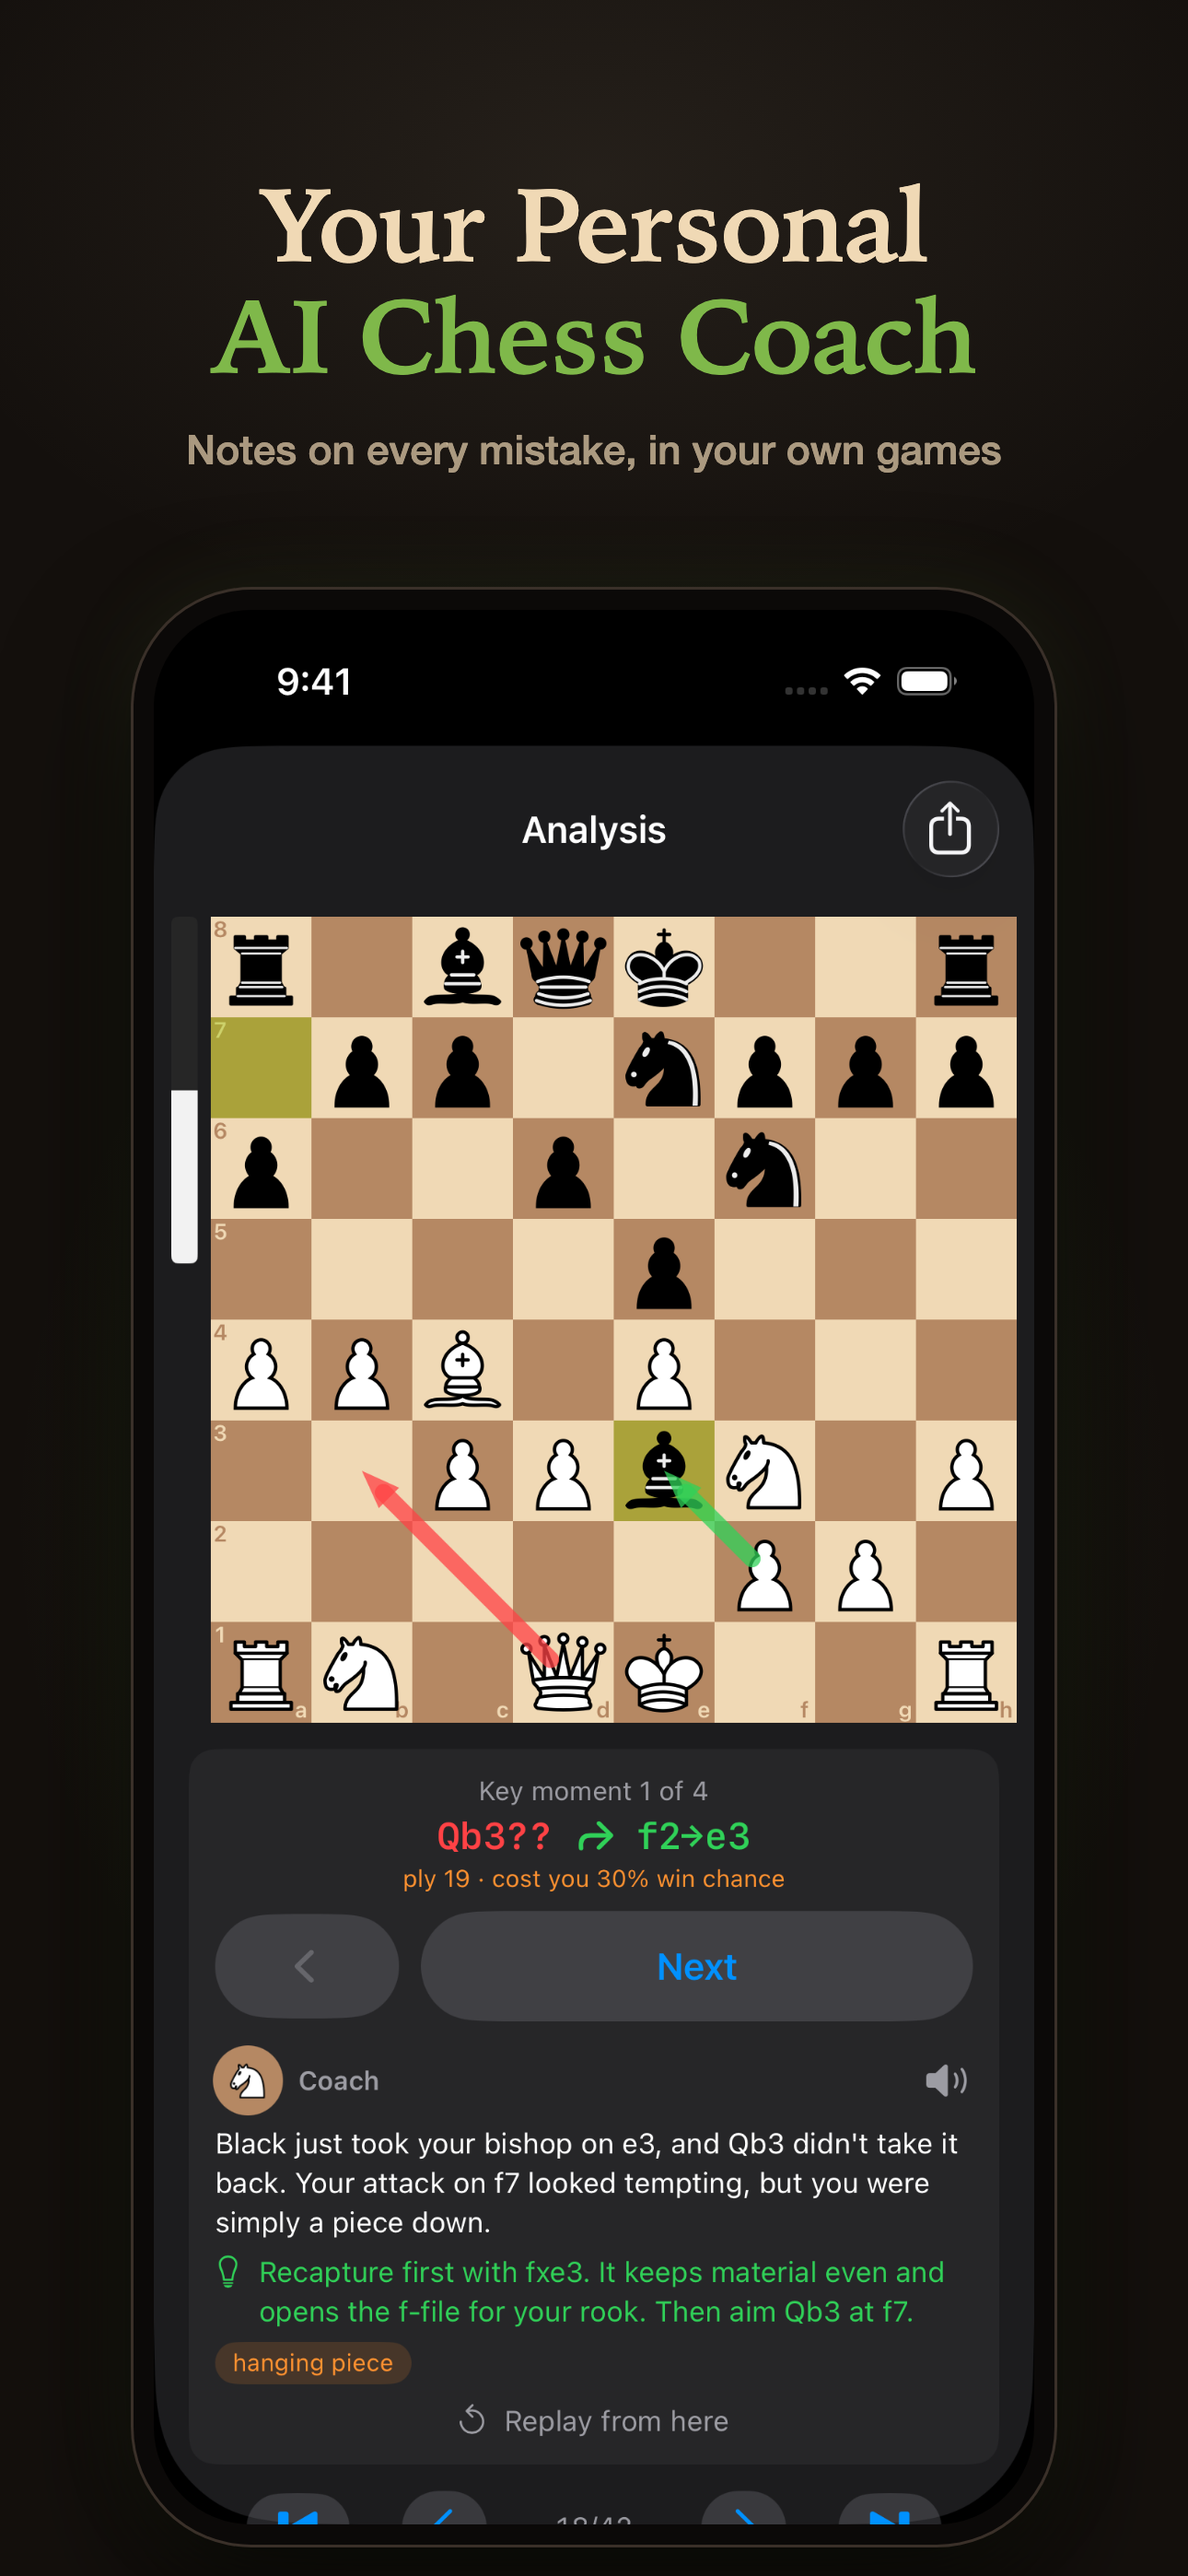
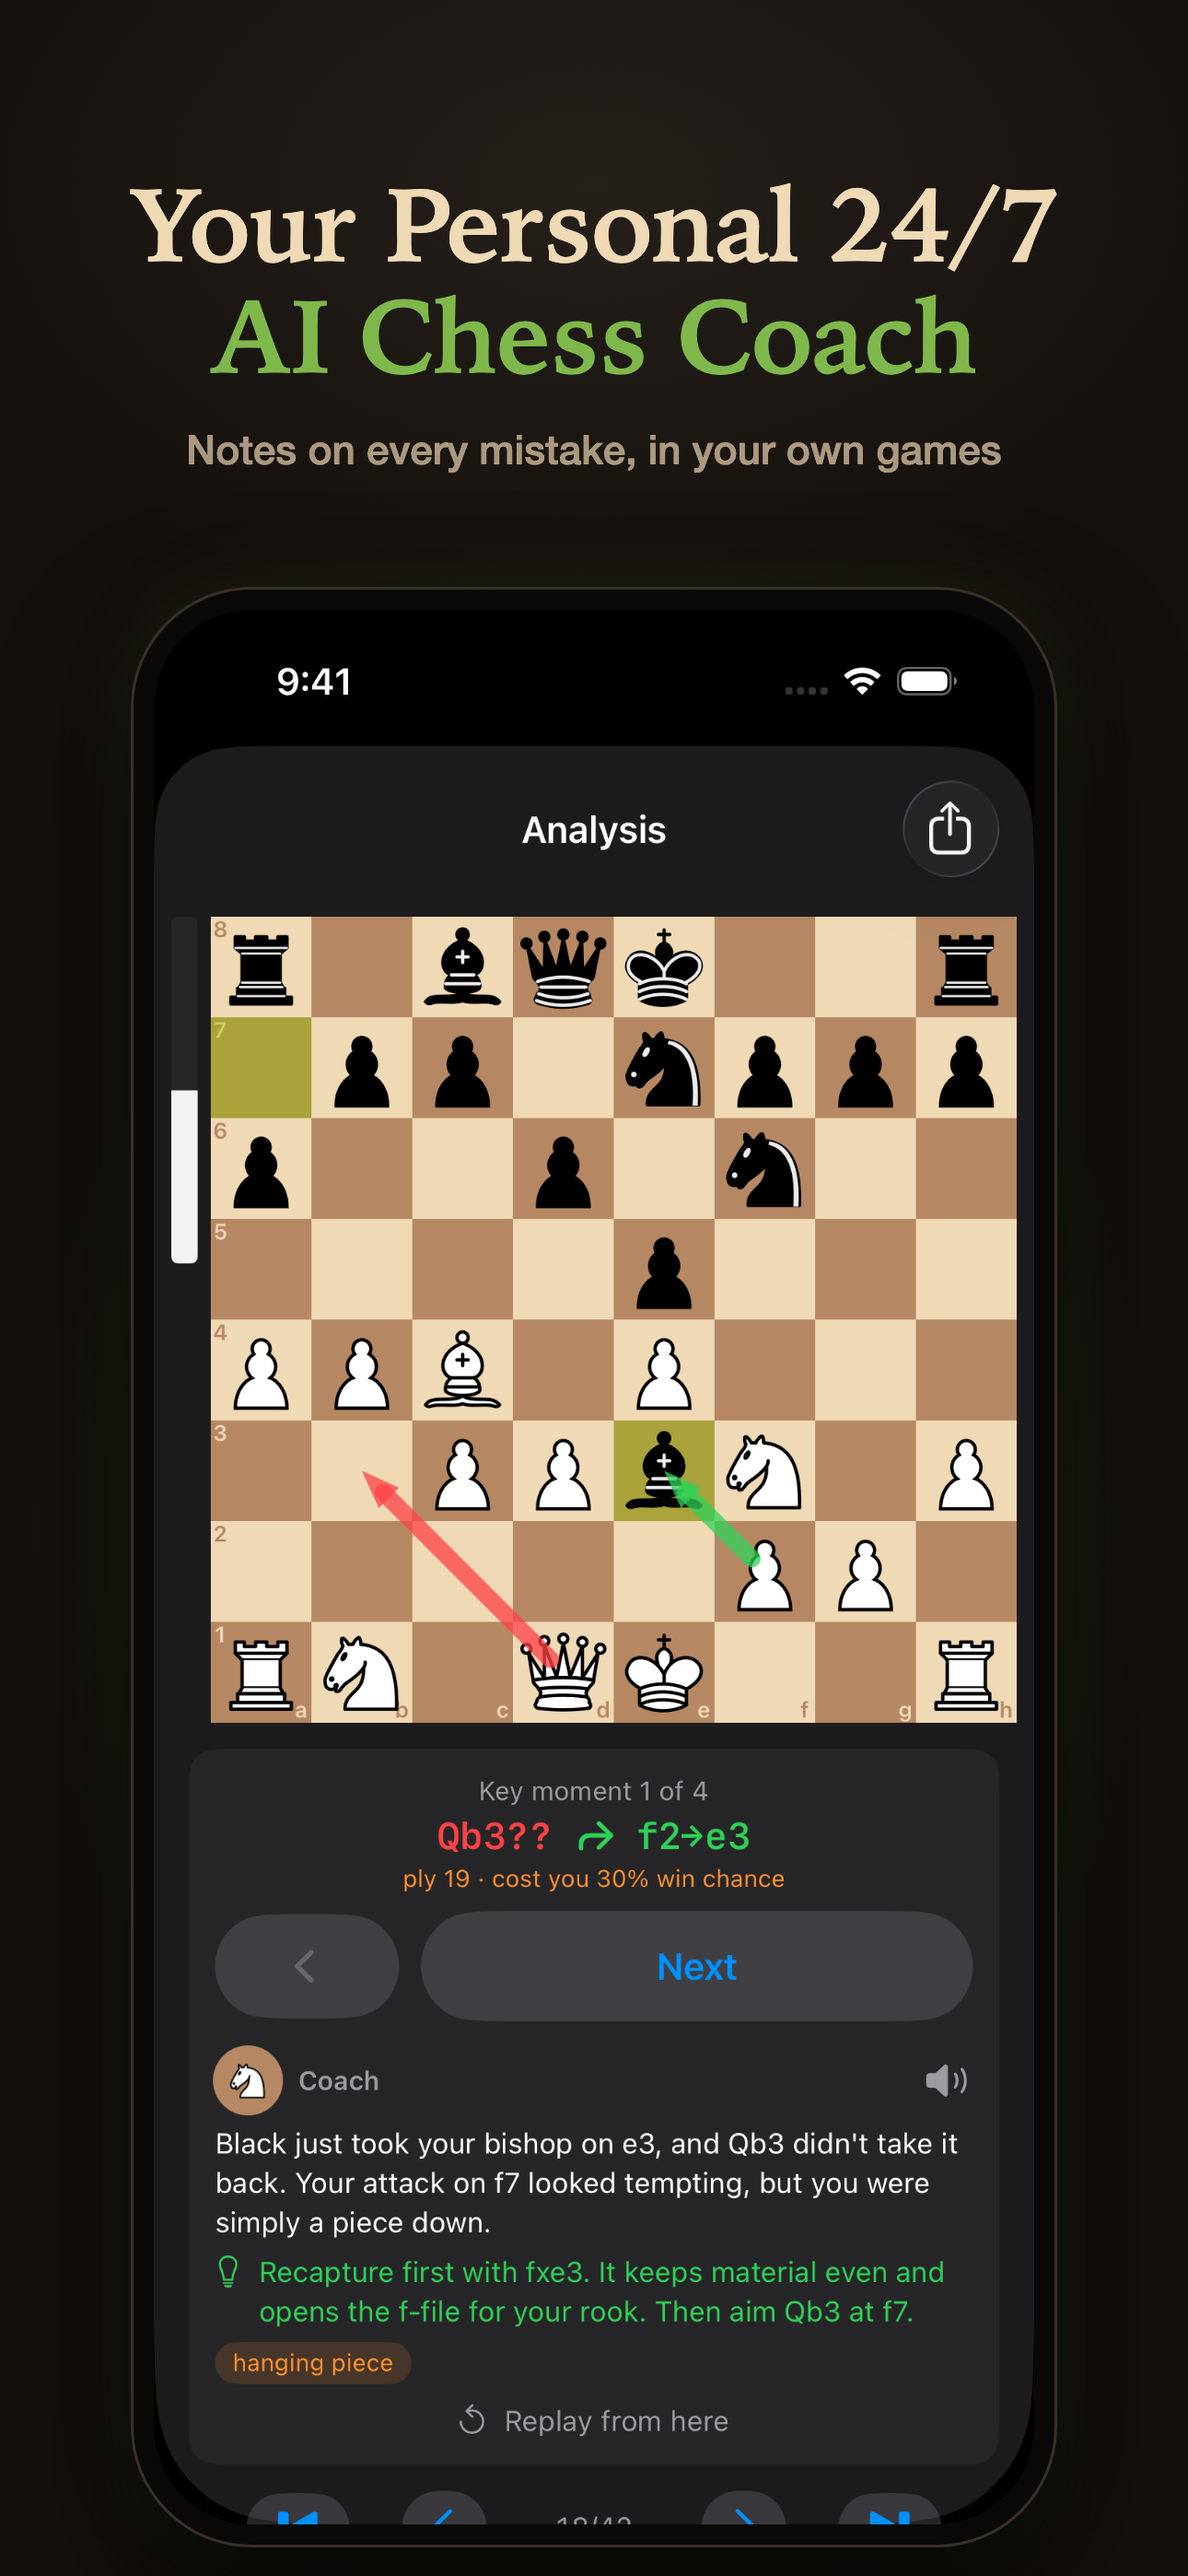
Screenshot 01 headline: Your Personal 24/7 AI Chess Coach

Changed region(s): [[0.124, 0.0622, 0.8992, 0.1245]]

diff --git a/docs/appstore/source/html/setA_02.html b/docs/appstore/source/html/setA_02.html
@@ -10,4 +10,4 @@ p{margin-top:34px;font-family:-apple-system,'Helvetica Neue',sans-serif;font-siz
 .phone{position:absolute;left:145px;top:640px;width:1000px;height:2122px;border-radius:128px;background:#0b0908;
 padding:22px;box-shadow:0 0 0 3px #3a3029,0 60px 140px rgba(0,0,0,.75),0 0 90px rgba(127,184,74,.12)}
 .phone img{width:956px;height:2078px;border-radius:106px;display:block}
-</style></head><body><div class="head"><h1 style="font-size:100px"><span style="font-size:100px">Every Game Reviewed,</span><br><span class="g">Plain English</span></h1><p>A coach&rsquo;s report after every game</p></div><div class="phone"><img src="file:///private/tmp/claude-501/-Users-jitbiswal-dev-chessmaster/7ab231c6-2469-481f-9984-ad0b7832e905/scratchpad/aso/raw/report.png"></div></body></html>
+</style></head><body><div class="head"><h1 style="font-size:100px"><span style="font-size:100px">Every Game Reviewed,</span><br><span class="g">Plain English</span></h1><p>A coach&rsquo;s report after every game</p></div><div class="phone"><img src="raw/report.png"></div></body></html>

diff --git a/docs/appstore/source/html/setA_01.html b/docs/appstore/source/html/setA_01.html
@@ -10,4 +10,4 @@ p{margin-top:34px;font-family:-apple-system,'Helvetica Neue',sans-serif;font-siz
 .phone{position:absolute;left:145px;top:640px;width:1000px;height:2122px;border-radius:128px;background:#0b0908;
 padding:22px;box-shadow:0 0 0 3px #3a3029,0 60px 140px rgba(0,0,0,.75),0 0 90px rgba(127,184,74,.12)}
 .phone img{width:956px;height:2078px;border-radius:106px;display:block}
-</style></head><body><div class="head"><h1 style="">Your Personal<br><span class="g">AI Chess Coach</span></h1><p>Notes on every mistake, in your own games</p></div><div class="phone"><img src="file:///private/tmp/claude-501/-Users-jitbiswal-dev-chessmaster/7ab231c6-2469-481f-9984-ad0b7832e905/scratchpad/aso/raw/an3.png"></div></body></html>
+</style></head><body><div class="head"><h1 style="">Your Personal 24/7<br><span class="g">AI Chess Coach</span></h1><p>Notes on every mistake, in your own games</p></div><div class="phone"><img src="file:///Users/jitbiswal/dev/chessmaster/docs/appstore/source/raw/an3.png"></div></body></html>

diff --git a/docs/appstore/source/html/setA_05.html b/docs/appstore/source/html/setA_05.html
@@ -10,4 +10,4 @@ p{margin-top:34px;font-family:-apple-system,'Helvetica Neue',sans-serif;font-siz
 .phone{position:absolute;left:145px;top:640px;width:1000px;height:2122px;border-radius:128px;background:#0b0908;
 padding:22px;box-shadow:0 0 0 3px #3a3029,0 60px 140px rgba(0,0,0,.75),0 0 90px rgba(127,184,74,.12)}
 .phone img{width:956px;height:2078px;border-radius:106px;display:block}
-</style></head><body><div class="head"><h1 style=""><span class="g">1,369 Puzzles</span><br>to Sharpen Tactics</h1><p>Forks, pins, mates and more, plus a daily puzzle</p></div><div class="phone"><img src="file:///private/tmp/claude-501/-Users-jitbiswal-dev-chessmaster/7ab231c6-2469-481f-9984-ad0b7832e905/scratchpad/aso/raw/daily.png"></div></body></html>
+</style></head><body><div class="head"><h1 style=""><span class="g">1,369 Puzzles</span><br>to Sharpen Tactics</h1><p>Forks, pins, mates and more, plus a daily puzzle</p></div><div class="phone"><img src="raw/daily.png"></div></body></html>

diff --git a/docs/appstore/source/html/setA_04.html b/docs/appstore/source/html/setA_04.html
@@ -10,4 +10,4 @@ p{margin-top:34px;font-family:-apple-system,'Helvetica Neue',sans-serif;font-siz
 .phone{position:absolute;left:145px;top:640px;width:1000px;height:2122px;border-radius:128px;background:#0b0908;
 padding:22px;box-shadow:0 0 0 3px #3a3029,0 60px 140px rgba(0,0,0,.75),0 0 90px rgba(127,184,74,.12)}
 .phone img{width:956px;height:2078px;border-radius:106px;display:block}
-</style></head><body><div class="head"><h1 style="">An Opponent<br>That <span class="g">Matches You</span></h1><p>Auto level grows with you, Newcomer to Grandmaster</p></div><div class="phone"><img src="file:///private/tmp/claude-501/-Users-jitbiswal-dev-chessmaster/7ab231c6-2469-481f-9984-ad0b7832e905/scratchpad/aso/raw/auto.png"></div></body></html>
+</style></head><body><div class="head"><h1 style="">An Opponent<br>That <span class="g">Matches You</span></h1><p>Auto level grows with you, Newcomer to Grandmaster</p></div><div class="phone"><img src="raw/auto.png"></div></body></html>

diff --git a/docs/appstore/source/html/setA_03.html b/docs/appstore/source/html/setA_03.html
@@ -10,4 +10,4 @@ p{margin-top:34px;font-family:-apple-system,'Helvetica Neue',sans-serif;font-siz
 .phone{position:absolute;left:145px;top:640px;width:1000px;height:2122px;border-radius:128px;background:#0b0908;
 padding:22px;box-shadow:0 0 0 3px #3a3029,0 60px 140px rgba(0,0,0,.75),0 0 90px rgba(127,184,74,.12)}
 .phone img{width:956px;height:2078px;border-radius:106px;display:block}
-</style></head><body><div class="head"><h1 style="">See Your Mistakes,<br><span class="g">Best Moves</span></h1><p>Red is what you played. Green is better.</p></div><div class="phone"><img src="file:///private/tmp/claude-501/-Users-jitbiswal-dev-chessmaster/7ab231c6-2469-481f-9984-ad0b7832e905/scratchpad/aso/raw/km2.png"></div></body></html>
+</style></head><body><div class="head"><h1 style="">See Your Mistakes,<br><span class="g">Best Moves</span></h1><p>Red is what you played. Green is better.</p></div><div class="phone"><img src="raw/km2.png"></div></body></html>

diff --git a/docs/appstore/source/build.py b/docs/appstore/source/build.py
@@ -1,8 +1,8 @@
-import os, subprocess
+import os, subprocess, sys
 R=os.path.abspath("raw")
 G=lambda s:f'<span class="g">{s}</span>'
 shots={
-"setA/01":("Your Personal<br>"+G("AI Chess Coach"),"Notes on every mistake, in your own games","an3"),
+"setA/01":("Your Personal 24/7<br>"+G("AI Chess Coach"),"Notes on every mistake, in your own games","an3"),
 "setA/02":("<span style=\"font-size:100px\">Every Game Reviewed,</span><br>"+G("Plain English"),"A coach&rsquo;s report after every game","report"),
 "setA/03":("See Your Mistakes,<br>"+G("Best Moves"),"Red is what you played. Green is better.","km2"),
 "setA/04":("An Opponent<br>That "+G("Matches You"),"Auto level grows with you, Newcomer to Grandmaster","auto"),
@@ -27,6 +27,7 @@ padding:22px;box-shadow:0 0 0 3px #3a3029,0 60px 140px rgba(0,0,0,.75),0 0 90px 
 .phone img{width:956px;height:2078px;border-radius:106px;display:block}
 """
 for out,(h,sub,img) in shots.items():
+    if len(sys.argv)>1 and out not in sys.argv[1:]: continue
     f=f"html/{out.replace('/','_')}.html"
     open(f,"w").write(f'<!doctype html><html><head><meta charset="utf-8"><style>{css}</style></head><body><div class="head"><h1 style="{'font-size:100px' if out=='setA/02' else ''}">{h}</h1><p>{sub}</p></div><div class="phone"><img src="file://{R}/{img}.png"></div></body></html>')
     subprocess.run(["/Applications/Google Chrome.app/Contents/MacOS/Google Chrome","--headless","--disable-gpu","--force-device-scale-factor=1",f"--screenshot={os.path.abspath(out)}.png","--window-size=1290,2796","--hide-scrollbars","--allow-file-access-from-files","file://"+os.path.abspath(f)],capture_output=True)
